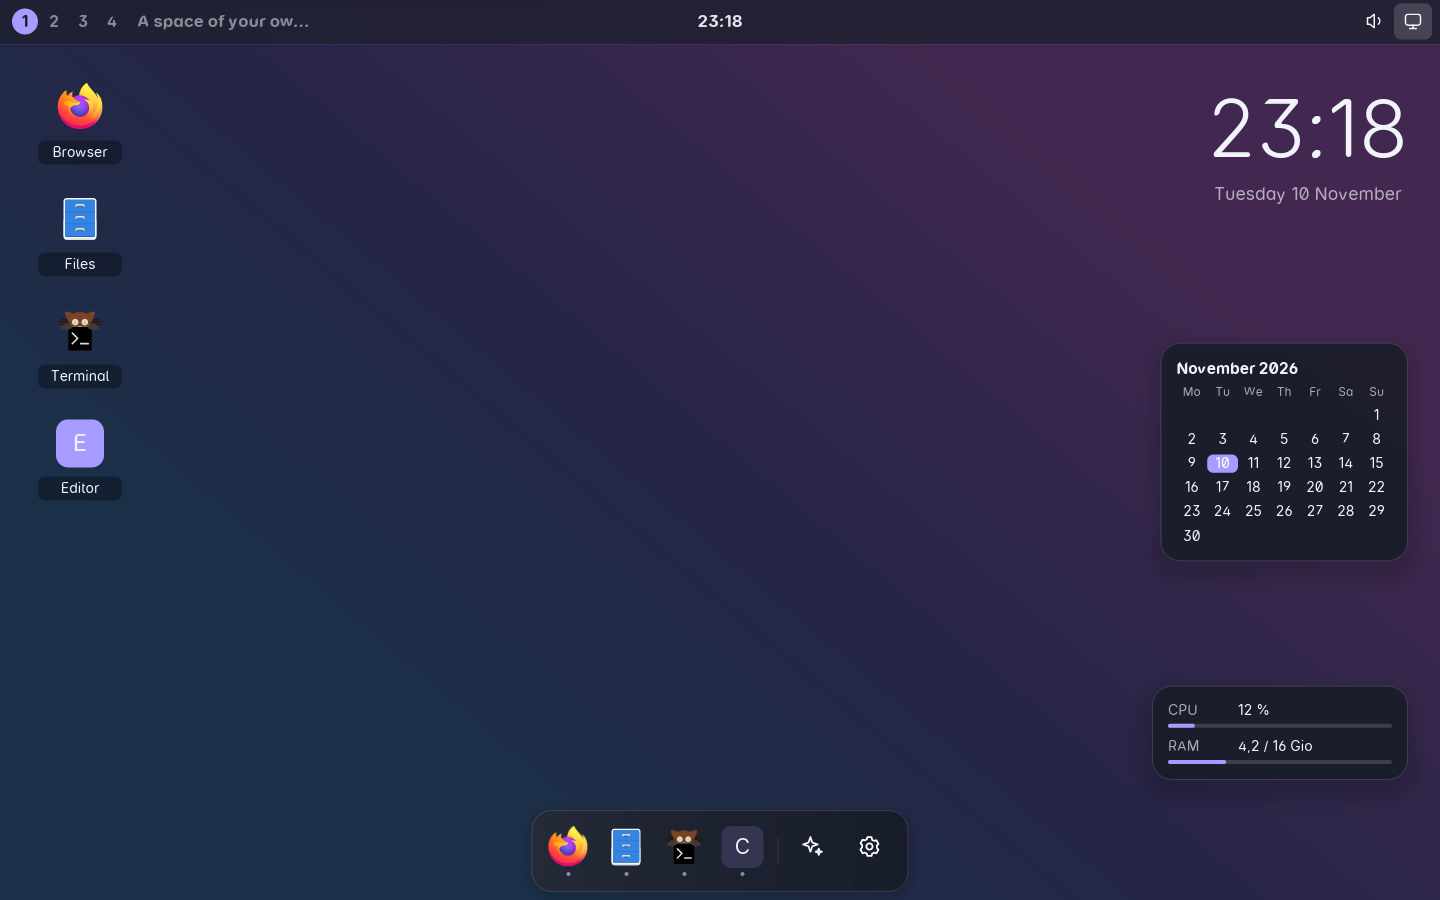
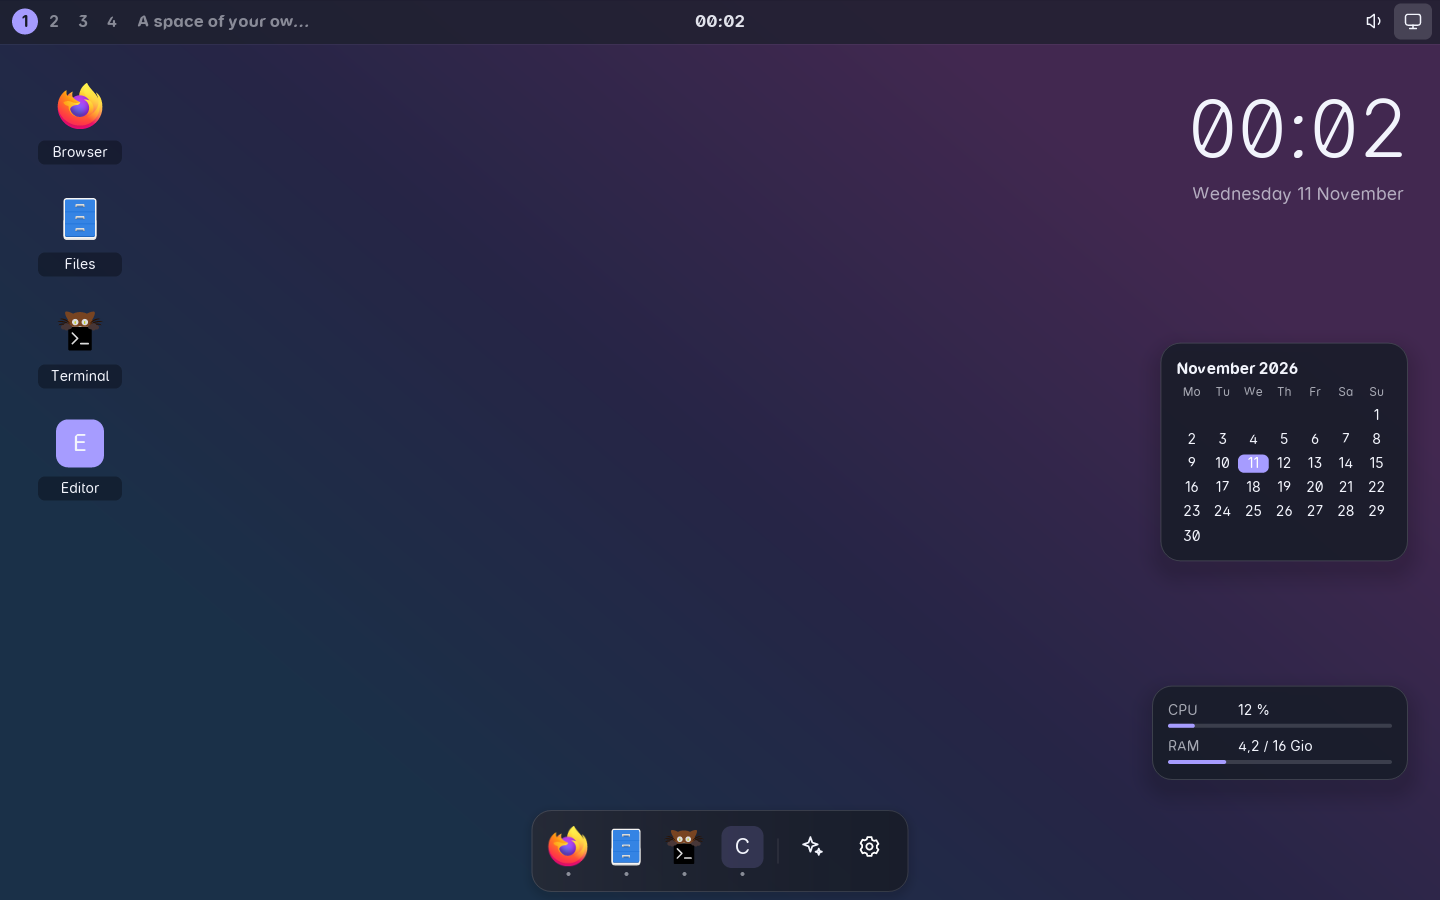
hyprdesk : README — le bureau en trois modes illustré (full, lanceur seul, masqué)

Changed region(s): [[0.8125, 0.0933, 0.9688, 0.2489], [0.8125, 0.4978, 0.9062, 0.5289], [0.4688, 0.0, 0.5312, 0.0311]]

diff --git a/README.md b/README.md
@@ -19,6 +19,17 @@ can have its own desktop. Configuration is written in Lua, in the style of
 *Screenshots come from hyprdesk's isolated preview (`cargo run --locked --
 preview`), rendered with demo data.*
 
+**One key, three desktop modes.** `SUPER + D` sets the workspace's windows
+aside and shows the desktop with its icons and widgets; `SUPER + ALT + D`
+keeps the tiled windows and shows only the dock; `SUPER + CTRL + D` hides the
+desktop, leaving the wallpaper to the windows.
+
+<table><tr>
+<td align="center" width="33%"><img src="assets/screenshots/desktop.png" width="440" alt="full-desktop mode: desktop with icons and widgets, windows set aside"><br><b>full-desktop</b></td>
+<td align="center" width="33%"><img src="assets/screenshots/mode-launcher.png" width="440" alt="launcher-only mode: tiled windows keep their place, the dock stays"><br><b>launcher-only</b></td>
+<td align="center" width="33%"><img src="assets/screenshots/mode-hidden.png" width="440" alt="no-desktop mode: desktop hidden, tiled windows over the wallpaper"><br><b>no-desktop</b></td>
+</tr></table>
+
 hyprdesk is the **root** of the graphical session:
 
 - **Visual root.** The desktop always sits *below* every window, never on top.
